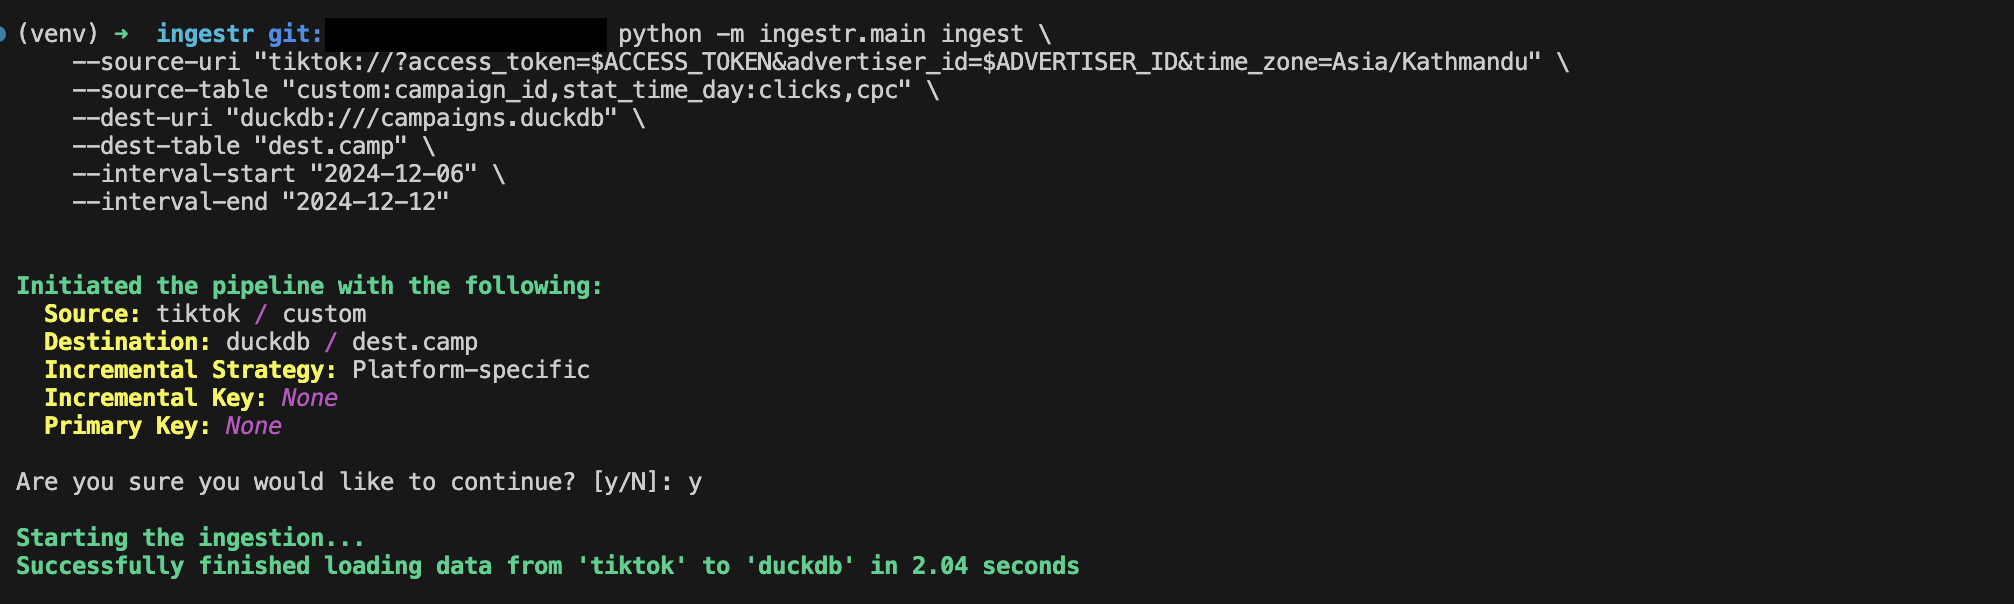
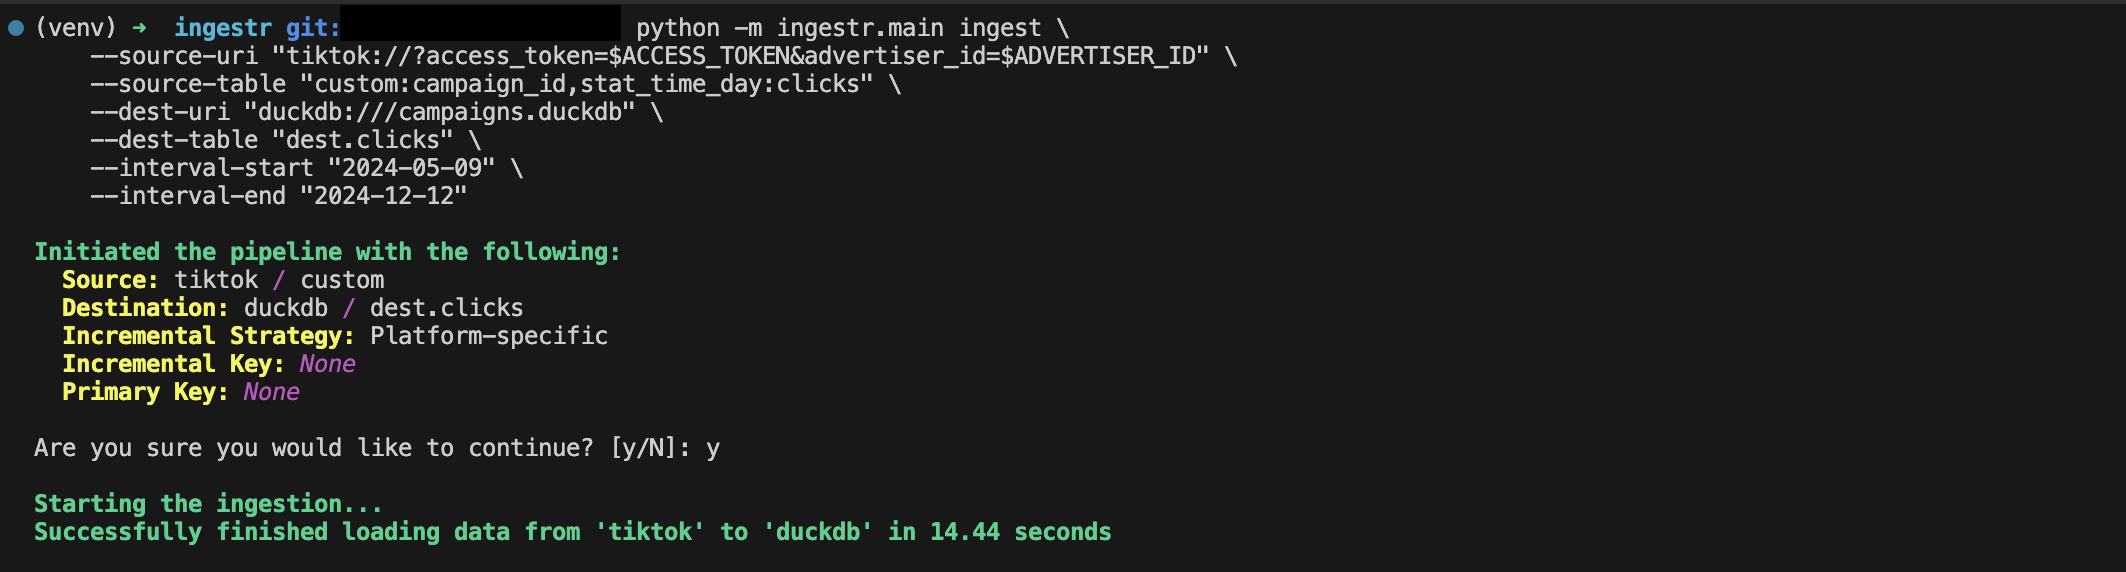
add output image

diff --git a/ingestr/src/tiktok_ads/tiktok_helpers.py b/ingestr/src/tiktok_ads/tiktok_helpers.py
@@ -119,7 +119,7 @@ class TikTokAPI:
             result_data = result.get("data", {})
             items = result_data.get("list", [])
 
-            flat_structure(items=items,timezone=self.timezone)
+            flat_structure(items=items, timezone=self.timezone)
 
             yield items
 

diff --git a/docs/supported-sources/tiktok-ads.md b/docs/supported-sources/tiktok-ads.md
@@ -13,14 +13,13 @@ tiktok://?access_token=<ACCESS_TOKEN>&advertiser_id=<ADVERTISER_ID>
 - `access_token` (required): Used for authentication and is necessary to access reports through the TikTok Marketing API.
 - `advertiser_id` (required): The unique identifier for the advertiser's account, required to retrieve campaign and ad data for a specific advertiser.
 
-## Setting up an TikTok Integration
-TikTok requires an `access_token` and `advertiser_id` to access its TikTok Ads data. For more information, please follow this [guide](https://business-api.tiktok.com/portal/docs?id=1738373141733378).
+TikTok requires an `access_token` and `advertiser_id` to retrieve reports from the TikTok marketing API. Please follow the guide to obtain the [credentials](https://business-api.tiktok.com/portal/docs?id=1738373141733378).
 
 ## Table: Custom Reports
 Custom reports allow you to retrieve data based on specific `dimensions`, `metrics`, and `filters`.
 
 Custom Table Format:
-```plaintext
+```
 custom:<dimensions>:<metrics>:<filter_name,filter_values>
 ```
 ### Parameters:
@@ -52,7 +51,7 @@ You can optionally specify the following parameters:
 
 If these `flags` are not provided, Ingestr will fetch data for the `last 90 days` and use the default page size of `1000`.
 
-```
+```sh
 ingestr ingest \
     --source-uri "tiktok://?access_token=token_123&advertiser_id=0594720014" \
     --source-table "custom:campaign_id,stat_time_day:clicks,cpc" \
@@ -63,7 +62,7 @@ ingestr ingest \
 ```
 This command will retrieve data for the specified date range and save it to the `dest.clicks` table in the DuckDB database.
 
-
+<img alt="titok_ads_img" src="../media/tiktok.png" />
 
 
 
